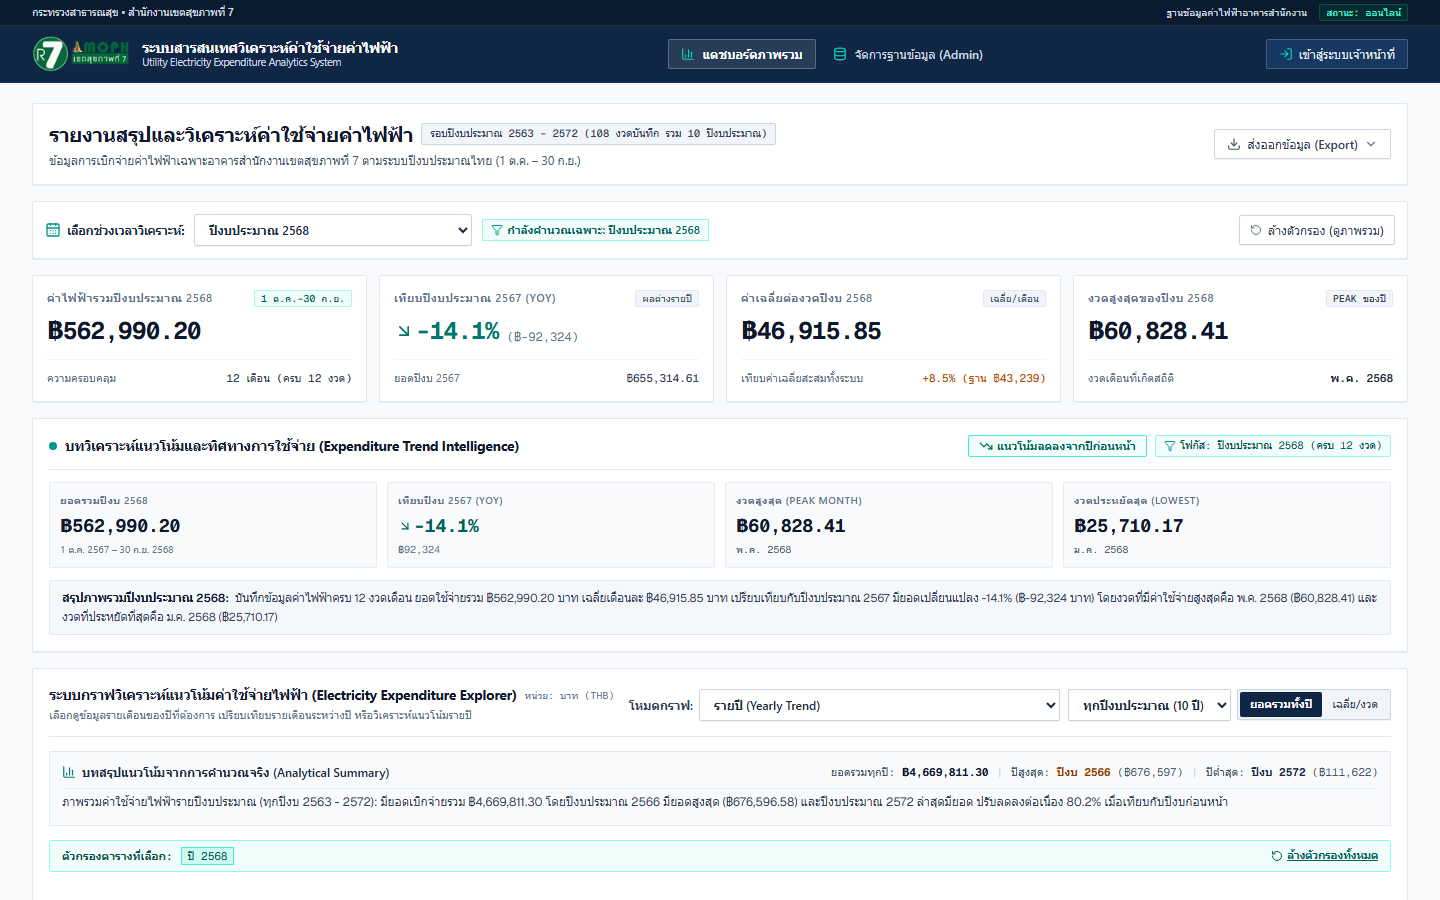
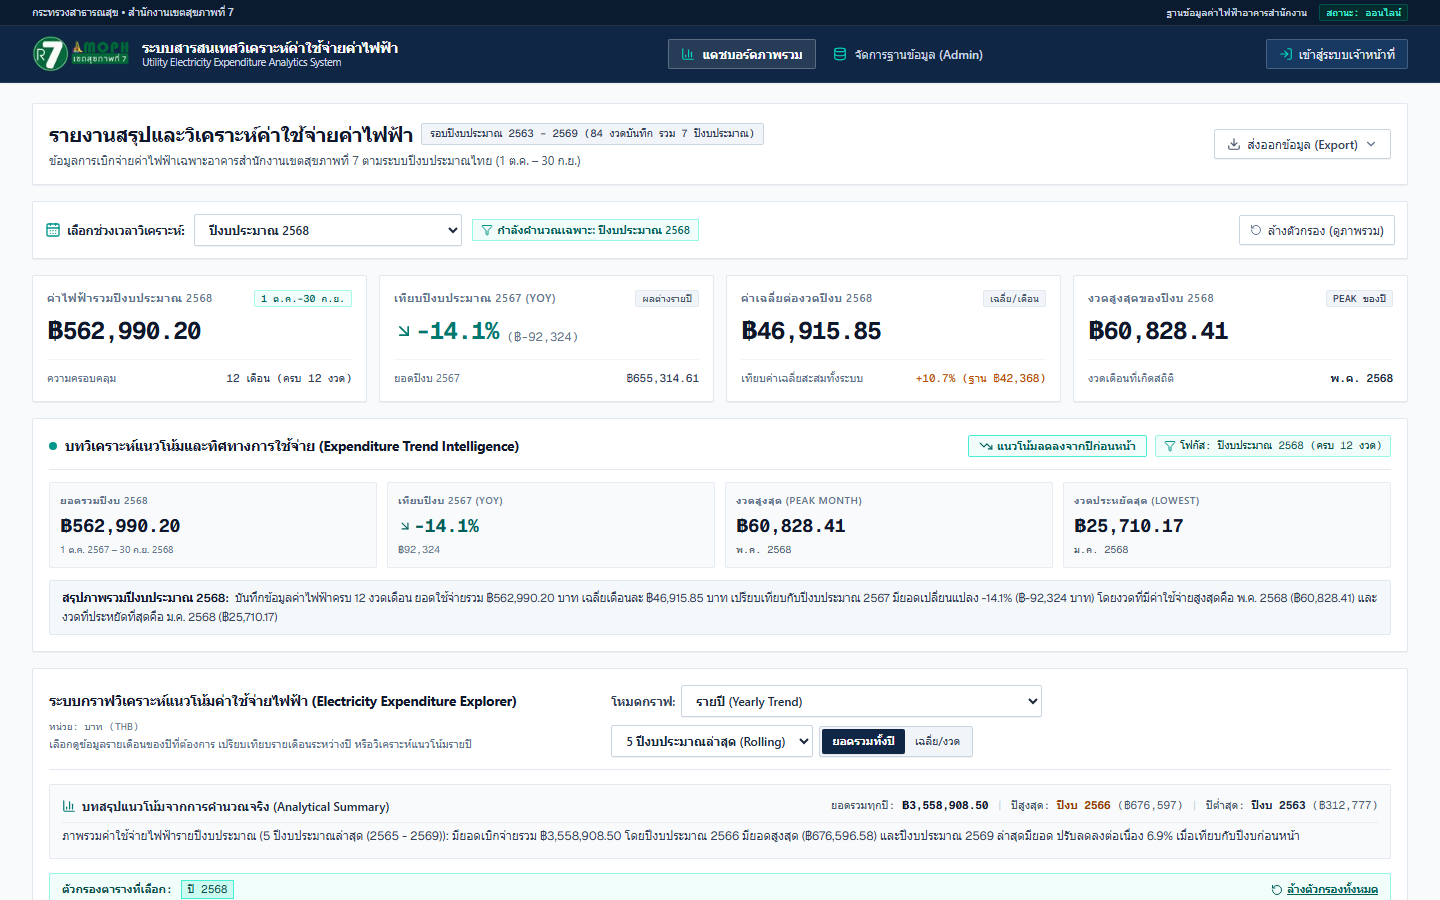
feat(charts): add rolling window sliding view and responsive horizontal scroll for future data scalability

diff --git a/components/dashboard/explorer/yearly-trend-view.tsx b/components/dashboard/explorer/yearly-trend-view.tsx
@@ -19,89 +19,97 @@ interface YearlyTrendViewProps {
 }
 
 export function YearlyTrendView({ data, onElementClick }: YearlyTrendViewProps) {
+  // If data length exceeds 8 bars, enable smooth horizontal scrolling so bars and labels stay legible
+  const isScrollable = data.length > 8;
+  const containerWidth = isScrollable ? `${Math.max(100, data.length * 72)}px` : '100%';
+
   return (
-    <ResponsiveContainer width="100%" height="100%">
-      <BarChart
-        data={data}
-        onClick={onElementClick}
-        margin={{ top: 24, right: 12, left: 4, bottom: 4 }}
-      >
-        <CartesianGrid strokeDasharray="2 2" vertical={false} stroke="#e2e8f0" />
-        <XAxis
-          dataKey="label"
-          tick={{ fontSize: 10, fill: '#475569' }}
-          tickLine={{ stroke: '#cbd5e1' }}
-          axisLine={{ stroke: '#cbd5e1' }}
-        />
-        <YAxis
-          tick={{ fontSize: 10, fill: '#475569' }}
-          tickLine={false}
-          axisLine={false}
-          tickFormatter={(value) => `${(value / 1000).toFixed(0)}k`}
-          domain={[0, (dataMax: number) => Math.ceil(dataMax * 1.15)]}
-        />
-        <Tooltip
-          content={({ active, payload }) => {
-            if (active && payload && payload.length) {
-              // eslint-disable-next-line @typescript-eslint/no-explicit-any
-              const item = payload[0].payload as any;
-              return (
-                <div className="bg-white border border-slate-300 rounded-xs p-2.5 shadow-md text-xs min-w-[210px]">
-                  <div className="font-semibold text-slate-800 text-[11px] pb-1 border-b border-slate-100 flex items-center justify-between">
-                    <span>รอบปีงบประมาณ</span>
-                    <span className="text-[#0f2744] font-bold">ปีงบ {item.fyBe}</span>
-                  </div>
-                  <div className="mt-2 space-y-1.5 text-xs">
-                    <div className="flex justify-between">
-                      <span className="text-slate-600">ค่าไฟฟ้ารวมทั้งปี:</span>
-                      <span className="font-bold font-mono text-slate-900">
-                        ฿{item.totalAmount.toLocaleString('th-TH', { minimumFractionDigits: 2 })}
-                      </span>
-                    </div>
-                    <div className="flex justify-between">
-                      <span className="text-slate-600">เฉลี่ยต่อเดือน:</span>
-                      <span className="font-mono text-slate-700">
-                        ฿{item.averageMonthly.toLocaleString('th-TH', { minimumFractionDigits: 2 })}
-                      </span>
-                    </div>
-                    <div className="flex justify-between">
-                      <span className="text-slate-600">จำนวนงวดที่บันทึก:</span>
-                      <span className="font-mono text-slate-700">{item.recordedMonths}/12 เดือน</span>
-                    </div>
-                    {item.yoyChangeRate !== null && (
-                      <div className="flex justify-between pt-1 border-t border-slate-100 text-[11px]">
-                        <span className="text-slate-500">เทียบปีงบก่อนหน้า:</span>
-                        <span className={`font-mono font-semibold ${item.yoyChangeRate > 0 ? 'text-amber-800' : 'text-teal-800'}`}>
-                          {item.yoyChangeRate > 0 ? '+' : ''}{item.yoyChangeRate.toFixed(1)}%
-                        </span>
+    <div className="w-full h-full overflow-x-auto overflow-y-hidden scrollbar-thin">
+      <div style={{ width: containerWidth, minWidth: '100%', height: '100%' }}>
+        <ResponsiveContainer width="100%" height="100%">
+          <BarChart
+            data={data}
+            onClick={onElementClick}
+            margin={{ top: 24, right: 16, left: 6, bottom: 4 }}
+          >
+            <CartesianGrid strokeDasharray="2 2" vertical={false} stroke="#e2e8f0" />
+            <XAxis
+              dataKey="label"
+              tick={{ fontSize: 10, fill: '#475569' }}
+              tickLine={{ stroke: '#cbd5e1' }}
+              axisLine={{ stroke: '#cbd5e1' }}
+            />
+            <YAxis
+              tick={{ fontSize: 10, fill: '#475569' }}
+              tickLine={false}
+              axisLine={false}
+              tickFormatter={(value) => `${(value / 1000).toFixed(0)}k`}
+              domain={[0, (dataMax: number) => Math.ceil(dataMax * 1.15)]}
+            />
+            <Tooltip
+              content={({ active, payload }) => {
+                if (active && payload && payload.length) {
+                  // eslint-disable-next-line @typescript-eslint/no-explicit-any
+                  const item = payload[0].payload as any;
+                  return (
+                    <div className="bg-white border border-slate-300 rounded-xs p-2.5 shadow-md text-xs min-w-[210px]">
+                      <div className="font-semibold text-slate-800 text-[11px] pb-1 border-b border-slate-100 flex items-center justify-between">
+                        <span>รอบปีงบประมาณ</span>
+                        <span className="text-[#0f2744] font-bold">ปีงบ {item.fyBe}</span>
                       </div>
-                    )}
-                  </div>
-                </div>
-              );
-            }
-            return null;
-          }}
-        />
-        <Bar
-          dataKey="metricValue"
-          fill="#0f2744"
-          radius={[2, 2, 0, 0]}
-          maxBarSize={48}
-        >
-          <LabelList
-            dataKey="metricValue"
-            position="top"
-            // eslint-disable-next-line @typescript-eslint/no-explicit-any
-            formatter={(val: any) => `฿${Math.round(Number(val)).toLocaleString('th-TH')}`}
-            fill="#0f2744"
-            fontSize={10}
-            fontWeight={600}
-            fontFamily="ui-monospace, SFMono-Regular, Menlo, Monaco, Consolas, monospace"
-            offset={6}
-          />
-        </Bar>
-      </BarChart>
-    </ResponsiveContainer>
+                      <div className="mt-2 space-y-1.5 text-xs">
+                        <div className="flex justify-between">
+                          <span className="text-slate-600">ค่าไฟฟ้ารวมทั้งปี:</span>
+                          <span className="font-bold font-mono text-slate-900">
+                            ฿{item.totalAmount.toLocaleString('th-TH', { minimumFractionDigits: 2 })}
+                          </span>
+                        </div>
+                        <div className="flex justify-between">
+                          <span className="text-slate-600">เฉลี่ยต่อเดือน:</span>
+                          <span className="font-mono text-slate-700">
+                            ฿{item.averageMonthly.toLocaleString('th-TH', { minimumFractionDigits: 2 })}
+                          </span>
+                        </div>
+                        <div className="flex justify-between">
+                          <span className="text-slate-600">จำนวนงวดที่บันทึก:</span>
+                          <span className="font-mono text-slate-700">{item.recordedMonths}/12 เดือน</span>
+                        </div>
+                        {item.yoyChangeRate !== null && (
+                          <div className="flex justify-between pt-1 border-t border-slate-100 text-[11px]">
+                            <span className="text-slate-500">เทียบปีงบก่อนหน้า:</span>
+                            <span className={`font-mono font-semibold ${item.yoyChangeRate > 0 ? 'text-amber-800' : 'text-teal-800'}`}>
+                              {item.yoyChangeRate > 0 ? '+' : ''}{item.yoyChangeRate.toFixed(1)}%
+                            </span>
+                          </div>
+                        )}
+                      </div>
+                    </div>
+                  );
+                }
+                return null;
+              }}
+            />
+            <Bar
+              dataKey="metricValue"
+              fill="#0f2744"
+              radius={[2, 2, 0, 0]}
+              maxBarSize={48}
+            >
+              <LabelList
+                dataKey="metricValue"
+                position="top"
+                // eslint-disable-next-line @typescript-eslint/no-explicit-any
+                formatter={(val: any) => `฿${Math.round(Number(val)).toLocaleString('th-TH')}`}
+                fill="#0f2744"
+                fontSize={10}
+                fontWeight={600}
+                fontFamily="ui-monospace, SFMono-Regular, Menlo, Monaco, Consolas, monospace"
+                offset={6}
+              />
+            </Bar>
+          </BarChart>
+        </ResponsiveContainer>
+      </div>
+    </div>
   );
 }

diff --git a/components/dashboard/expenditure-trend-explorer.tsx b/components/dashboard/expenditure-trend-explorer.tsx
@@ -45,8 +45,8 @@ export function ExpenditureTrendExplorer({
   );
   const [monthlyMetric, setMonthlyMetric] = useState<'amount' | 'cumulative'>('amount');
 
-  // 3. Yearly Trend Controls
-  const [yearlyRange, setYearlyRange] = useState<'5' | 'all'>('all');
+  // 3. Yearly Trend Controls (Default: Rolling 5 Years to ensure future scalability)
+  const [yearlyRange, setYearlyRange] = useState<'5' | '7' | '10' | 'all'>('5');
   const [yearlyMetric, setYearlyMetric] = useState<'total' | 'average'>('total');
 
   // 4. YoY Comparison Controls
@@ -76,8 +76,26 @@ export function ExpenditureTrendExplorer({
     return monthlyTrends.reduce((s, r) => s + r.amount, 0) / monthlyTrends.length;
   }, [monthlyTrends]);
 
-  // View 1: Monthly Trend Data
+  // View 1: Monthly Trend Data (Supports Rolling 12/24 Months & Calendar Years)
   const monthlyViewData: MonthlyViewDataItem[] = useMemo(() => {
+    if (selectedCalendarYear === 'recent_12') {
+      const slice = monthlyTrends.slice(-12);
+      return slice.map((r) => ({
+        ...r,
+        displayLabel: r.periodLabel,
+        metricValue: monthlyMetric === 'amount' ? r.amount : r.cumulativeFiscalAmount,
+      }));
+    }
+
+    if (selectedCalendarYear === 'recent_24') {
+      const slice = monthlyTrends.slice(-24);
+      return slice.map((r) => ({
+        ...r,
+        displayLabel: r.periodLabel,
+        metricValue: monthlyMetric === 'amount' ? r.amount : r.cumulativeFiscalAmount,
+      }));
+    }
+
     if (selectedCalendarYear === 'all') {
       return monthlyTrends.map((r) => ({
         ...r,
@@ -135,11 +153,15 @@ export function ExpenditureTrendExplorer({
     };
   }, [monthlyViewData]);
 
-  // View 2: Yearly Trend Data
+  // View 2: Yearly Trend Data (Supports Rolling 5, 7, 10 Years & All)
   const yearlyViewData: YearlyViewDataItem[] = useMemo(() => {
     let list = [...fiscalYearComparison];
     if (yearlyRange === '5') {
       list = list.slice(-5);
+    } else if (yearlyRange === '7') {
+      list = list.slice(-7);
+    } else if (yearlyRange === '10') {
+      list = list.slice(-10);
     }
     return list.map((f) => ({
       ...f,
@@ -273,6 +295,12 @@ export function ExpenditureTrendExplorer({
     const maxFY = fiscalYearComparison[fiscalYearComparison.length - 1]?.fyBe || 2569;
 
     if (viewMode === 'monthly') {
+      if (selectedCalendarYear === 'recent_12') {
+        return `แสดงข้อมูลค่าใช้จ่ายไฟฟ้ารายเดือนย้อนหลัง 12 เดือนล่าสุด ยอดรวมสะสม ฿${monthlyStats.total.toLocaleString('th-TH', { minimumFractionDigits: 2 })} (เฉลี่ย ฿${monthlyStats.avg.toLocaleString('th-TH', { maximumFractionDigits: 0 })}/เดือน)`;
+      }
+      if (selectedCalendarYear === 'recent_24') {
+        return `แสดงข้อมูลค่าใช้จ่ายไฟฟ้ารายเดือนย้อนหลัง 24 เดือนล่าสุด (2 ปี) ยอดรวมสะสม ฿${monthlyStats.total.toLocaleString('th-TH', { minimumFractionDigits: 2 })} (เฉลี่ย ฿${monthlyStats.avg.toLocaleString('th-TH', { maximumFractionDigits: 0 })}/เดือน)`;
+      }
       if (selectedCalendarYear === 'all') {
         return `แสดงข้อมูลค่าใช้จ่ายไฟฟ้ารายเดือนต่อเนื่อง ${monthlyTrends.length} งวดบันทึก (ปี พ.ศ. ${minCalYear} – ${maxCalYear}) ยอดรวมสะสม ฿${monthlyStats.total.toLocaleString('th-TH', { minimumFractionDigits: 2 })} ค่าเฉลี่ยระบบอยู่ที่ ฿${overallHistoricalAverage.toLocaleString('th-TH', { maximumFractionDigits: 0 })}/งวด`;
       }
@@ -280,8 +308,11 @@ export function ExpenditureTrendExplorer({
     }
 
     if (viewMode === 'yearly') {
+      const minDisplayFY = yearlyViewData[0]?.fyBe || minFY;
+      const maxDisplayFY = yearlyViewData[yearlyViewData.length - 1]?.fyBe || maxFY;
       const dirText = (yearlyStats.latestYoY?.rate || 0) < 0 ? 'ปรับลดลงต่อเนื่อง' : 'ปรับตัวเพิ่มขึ้น';
-      return `ภาพรวมค่าใช้จ่ายไฟฟ้ารายปีงบประมาณ (${yearlyRange === '5' ? '5 ปีล่าสุด' : `ทุกปีงบ ${minFY} - ${maxFY}`}): มียอดเบิกจ่ายรวม ฿${yearlyStats.total.toLocaleString('th-TH', { minimumFractionDigits: 2 })} โดยปีงบประมาณ ${yearlyStats.maxYear?.year} มียอดสูงสุด (฿${(yearlyStats.maxYear?.amount || 0).toLocaleString('th-TH', { minimumFractionDigits: 2 })}) และปีงบประมาณ ${yearlyStats.latestYoY?.year} ล่าสุดมียอด ${dirText} ${Math.abs(yearlyStats.latestYoY?.rate || 0).toFixed(1)}% เมื่อเทียบกับปีงบก่อนหน้า`;
+      const rangeLabel = yearlyRange === 'all' ? `ทุกปีงบ ${minDisplayFY} - ${maxDisplayFY}` : `${yearlyRange} ปีงบประมาณล่าสุด (${minDisplayFY} - ${maxDisplayFY})`;
+      return `ภาพรวมค่าใช้จ่ายไฟฟ้ารายปีงบประมาณ (${rangeLabel}): มียอดเบิกจ่ายรวม ฿${yearlyStats.total.toLocaleString('th-TH', { minimumFractionDigits: 2 })} โดยปีงบประมาณ ${yearlyStats.maxYear?.year} มียอดสูงสุด (฿${(yearlyStats.maxYear?.amount || 0).toLocaleString('th-TH', { minimumFractionDigits: 2 })}) และปีงบประมาณ ${yearlyStats.latestYoY?.year} ล่าสุดมียอด ${dirText} ${Math.abs(yearlyStats.latestYoY?.rate || 0).toFixed(1)}% เมื่อเทียบกับปีงบก่อนหน้า`;
     }
 
     // YoY Mode

diff --git a/components/dashboard/explorer/explorer-toolbar.tsx b/components/dashboard/explorer/explorer-toolbar.tsx
@@ -10,8 +10,8 @@ interface ExplorerToolbarProps {
   setSelectedCalendarYear: (year: string) => void;
   monthlyMetric: 'amount' | 'cumulative';
   setMonthlyMetric: (metric: 'amount' | 'cumulative') => void;
-  yearlyRange: '5' | 'all';
-  setYearlyRange: (range: '5' | 'all') => void;
+  yearlyRange: '5' | '7' | '10' | 'all';
+  setYearlyRange: (range: '5' | '7' | '10' | 'all') => void;
   yearlyMetric: 'total' | 'average';
   setYearlyMetric: (metric: 'total' | 'average') => void;
   yoyPrimaryYear: number;
@@ -84,14 +84,20 @@ export function ExplorerToolbar({
               onChange={(e) => setSelectedCalendarYear(e.target.value)}
               className="text-xs font-semibold border border-slate-300 hover:border-slate-400 bg-white text-slate-800 rounded-xs px-2.5 py-1.5 focus:outline-none focus:ring-2 focus:ring-[#0f2744] shadow-2xs cursor-pointer transition-colors"
             >
-              <option value="all">
-                แสดงต่อเนื่องทุกปี ({availableYears[availableYears.length - 1] || 2562} - {availableYears[0] || 2569})
-              </option>
-              {availableYears.map((y) => (
-                <option key={y} value={y.toString()}>
-                  ปี พ.ศ. {y}
+              <optgroup label="ช่วงเวลาย้อนหลัง (Rolling Window)">
+                <option value="recent_12">12 เดือนล่าสุด (1 ปีล่าสุด)</option>
+                <option value="recent_24">24 เดือนล่าสุด (2 ปีล่าสุด)</option>
+                <option value="all">
+                  แสดงต่อเนื่องทุกปี ({availableYears[availableYears.length - 1] || 2562} - {availableYears[0] || 2569})
                 </option>
-              ))}
+              </optgroup>
+              <optgroup label="เลือกตามปี พ.ศ.">
+                {availableYears.map((y) => (
+                  <option key={y} value={y.toString()}>
+                    ปี พ.ศ. {y}
+                  </option>
+                ))}
+              </optgroup>
             </select>
 
             <div className="inline-flex rounded-xs border border-slate-300 p-0.5 bg-slate-100 shadow-2xs text-[11px]">
@@ -186,11 +192,17 @@ export function ExplorerToolbar({
           <div className="flex items-center gap-1.5">
             <select
               value={yearlyRange}
-              onChange={(e) => setYearlyRange(e.target.value as '5' | 'all')}
+              onChange={(e) => setYearlyRange(e.target.value as '5' | '7' | '10' | 'all')}
               className="text-xs font-semibold border border-slate-300 hover:border-slate-400 bg-white text-slate-800 rounded-xs px-2.5 py-1.5 focus:outline-none focus:ring-2 focus:ring-[#0f2744] shadow-2xs cursor-pointer transition-colors"
             >
+              <option value="5">5 ปีงบประมาณล่าสุด (Rolling)</option>
+              {totalFiscalYearsCount >= 7 && (
+                <option value="7">7 ปีงบประมาณล่าสุด</option>
+              )}
+              {totalFiscalYearsCount >= 10 && (
+                <option value="10">10 ปีงบประมาณล่าสุด</option>
+              )}
               <option value="all">ทุกปีงบประมาณ ({totalFiscalYearsCount} ปี)</option>
-              <option value="5">5 ปีงบประมาณล่าสุด</option>
             </select>
 
             <div className="inline-flex rounded-xs border border-slate-300 p-0.5 bg-slate-100 shadow-2xs text-[11px]">

diff --git a/components/dashboard/explorer/monthly-trend-view.tsx b/components/dashboard/explorer/monthly-trend-view.tsx
@@ -48,7 +48,13 @@ export function MonthlyTrendView({
           tick={{ fontSize: 10, fill: '#475569' }}
           tickLine={{ stroke: '#cbd5e1' }}
           axisLine={{ stroke: '#cbd5e1' }}
-          interval={selectedCalendarYear === 'all' ? Math.floor(data.length / 10) : 0}
+          interval={
+            selectedCalendarYear === 'all'
+              ? Math.floor(data.length / 10)
+              : selectedCalendarYear === 'recent_24'
+              ? 1
+              : 0
+          }
         />
         <YAxis
           tick={{ fontSize: 10, fill: '#475569' }}
@@ -143,7 +149,7 @@ export function MonthlyTrendView({
 
             const isSelected = selectedMonth === payload.month;
             const isAnomaly = Boolean(payload.isAnomaly);
-            const isAll = selectedCalendarYear === 'all';
+            const isAll = selectedCalendarYear === 'all' || selectedCalendarYear === 'recent_24';
             const val = payload.metricValue ?? payload.amount;
 
             const fullText = `฿${Math.round(val).toLocaleString('th-TH')}`;
